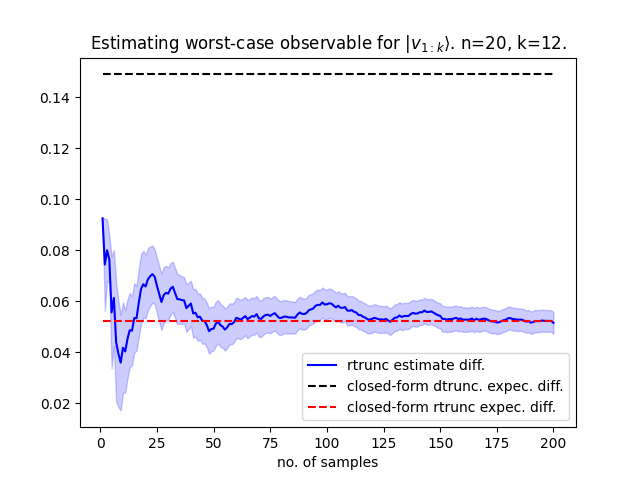
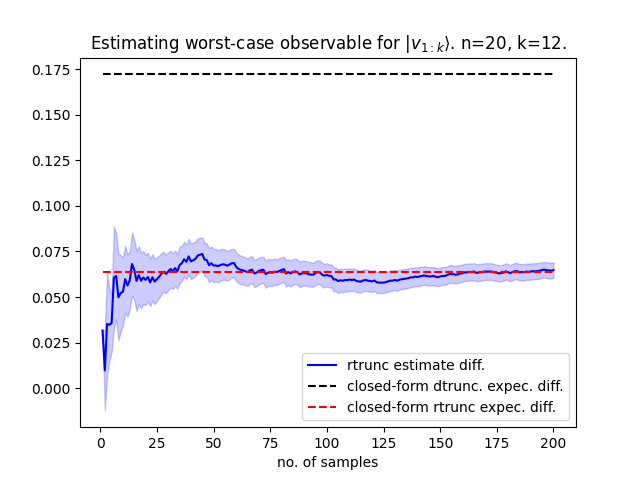
power law example

diff --git a/examples/power_law_example.py b/examples/power_law_example.py
@@ -1,0 +1,57 @@
+import numpy as np
+import matplotlib.pyplot as plt
+from rtrunc import td_optimizer as rtrunc
+from rtrunc.helpers import *
+
+n = 500
+
+gammas = [0.25, 0.5, 0.75, 1., 1.25]
+colors = ['orange', 'blue', 'green', 'red', 'black']
+startingepss = []
+start = 10
+ks = np.arange(start,n - 10,int(n/50))
+
+for j in range(len(gammas)):
+    gamma = gammas[j]
+    # power law
+    v = np.arange(n)+1
+    v=v**(-gamma)
+
+    # normalize
+    v = v/np.linalg.norm(v)
+    v = -np.sort(-np.abs(v))
+
+    fids = []
+    ubs = []
+    tds = []
+    for k in ks:
+        if k % 1 == 0:
+            print("on iteration {}".format(k))
+        tdo = rtrunc.TDOptimizer(k, v)
+        fid = tdo.fid
+        fids.append(fid)
+        m,td = tdo.getOptimalTDMeas()
+        tds.append(td)
+        kSupp = kSuppNorm(k, v)
+        robUB = 1-kSupp**(-2)
+        ubs.append(robUB)
+
+    print("finished gamma = {}".format(gamma))
+    ubs=np.array(ubs)
+    tds=np.array(tds)
+    fids=np.array(fids)
+    epss=np.sqrt(1-fids**2)
+    startingepss.append(epss[0])
+    plt.plot(epss, ubs/epss**2, '--', color=colors[j], label='Rob. UB, $\\gamma$={}'.format(gamma))
+    plt.plot(epss, tds/epss**2, '-', color=colors[j], label='Opt. TD, $\\gamma$={}'.format(gamma))
+
+maxeps = max(startingepss)
+epsrange = np.arange(0.,maxeps+0.01,0.01)
+plt.plot(epsrange, np.ones(np.size(epsrange)), '--', label='best possible, $\\epsilon^2$')
+plt.plot(epsrange, 1/epsrange, '--', color='gray', label='best pure approx.' )
+plt.title("Mixed approx. to power law pure state. n={}.".format(gamma,n))
+
+plt.legend()
+plt.ylabel('val.$/\\epsilon^2$')
+plt.xlabel('$\\epsilon$')
+plt.show()

diff --git a/README.md b/README.md
@@ -1,3 +1,5 @@
+![trunc_visualization_1.png](static/img/trunc_visualization_1.png)
+
 rtrunc is a small package to compute randomized truncations of
 pure quantum states, optimized with respect to the following distance measures
 (as of the current version): (i) trace distance and (ii) robustness.
@@ -31,6 +33,8 @@ python -m pytest tests/
 If this works, you should be good to go!
 
 ## Example usage
+
+All the example code in this section is contained in examples/td_opt_example.py.
 
 ### Computing the trace distance
 First, we'll import the necessary packages and create a random quantum
@@ -163,13 +167,19 @@ This gives:
 ### Getting the optimal state
 
 The method getOptimalTDState() returns the density matrix corresponding
-to the optimal randomized truncation. This method will not scale well
-with the dimension, but is useful for visualizing the outputs of
-randomized truncations at smaller dimensions. With n=20 and k=12, we can
-visualize the optimal approximations:
-
-![trunc_visualization_1.png](static/img/trunc_visualization_1.png)
+to the optimal randomized truncation. This method will be costly for large
+dimensions since we are generating an nxn matrix, but is useful for checking
+the output at smaller dimensions. With n=20 and k=12, we can use it to
+visualize the optimal approximation. This leads to the image at the
+beginning of this README.
 
 ### Generating power law plots
 
+The example code in examples/power_law_example.py demonstrates how one
+might use the package to study the behaviour of the optimal approximation
+when the sorted entries of v follow a power law. We can plot the quality of
+the approximations for various rates of decay as a function of the best pure
+trace distance \epsilon.
+
+![power_law_plot](static/img/power_law_plot_1.png)
 
